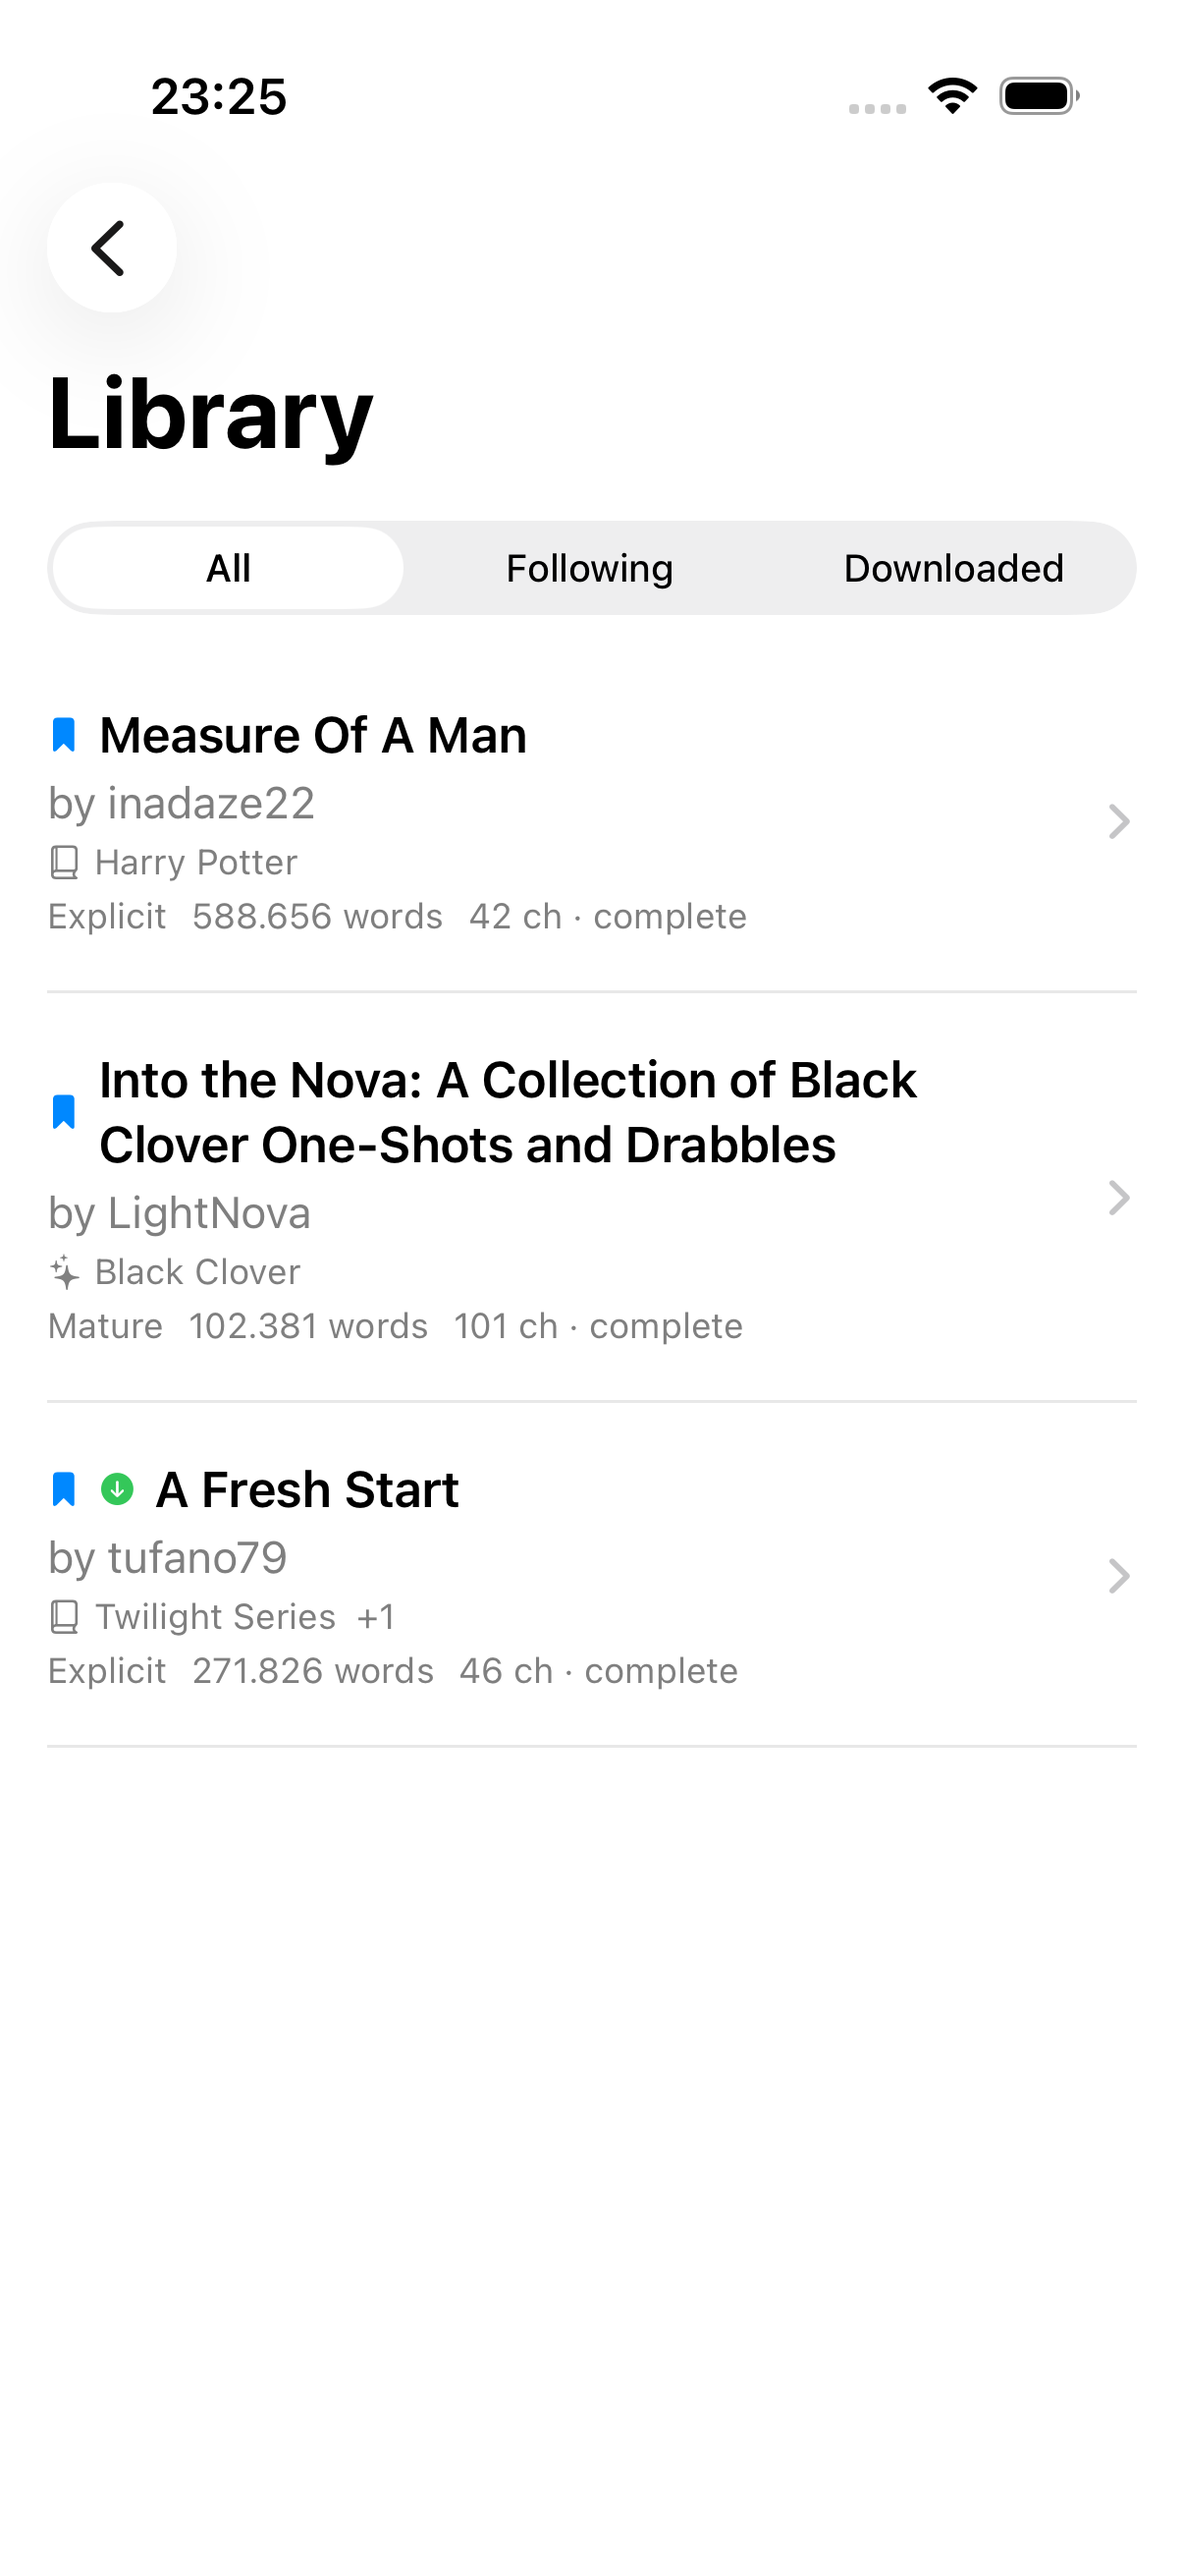
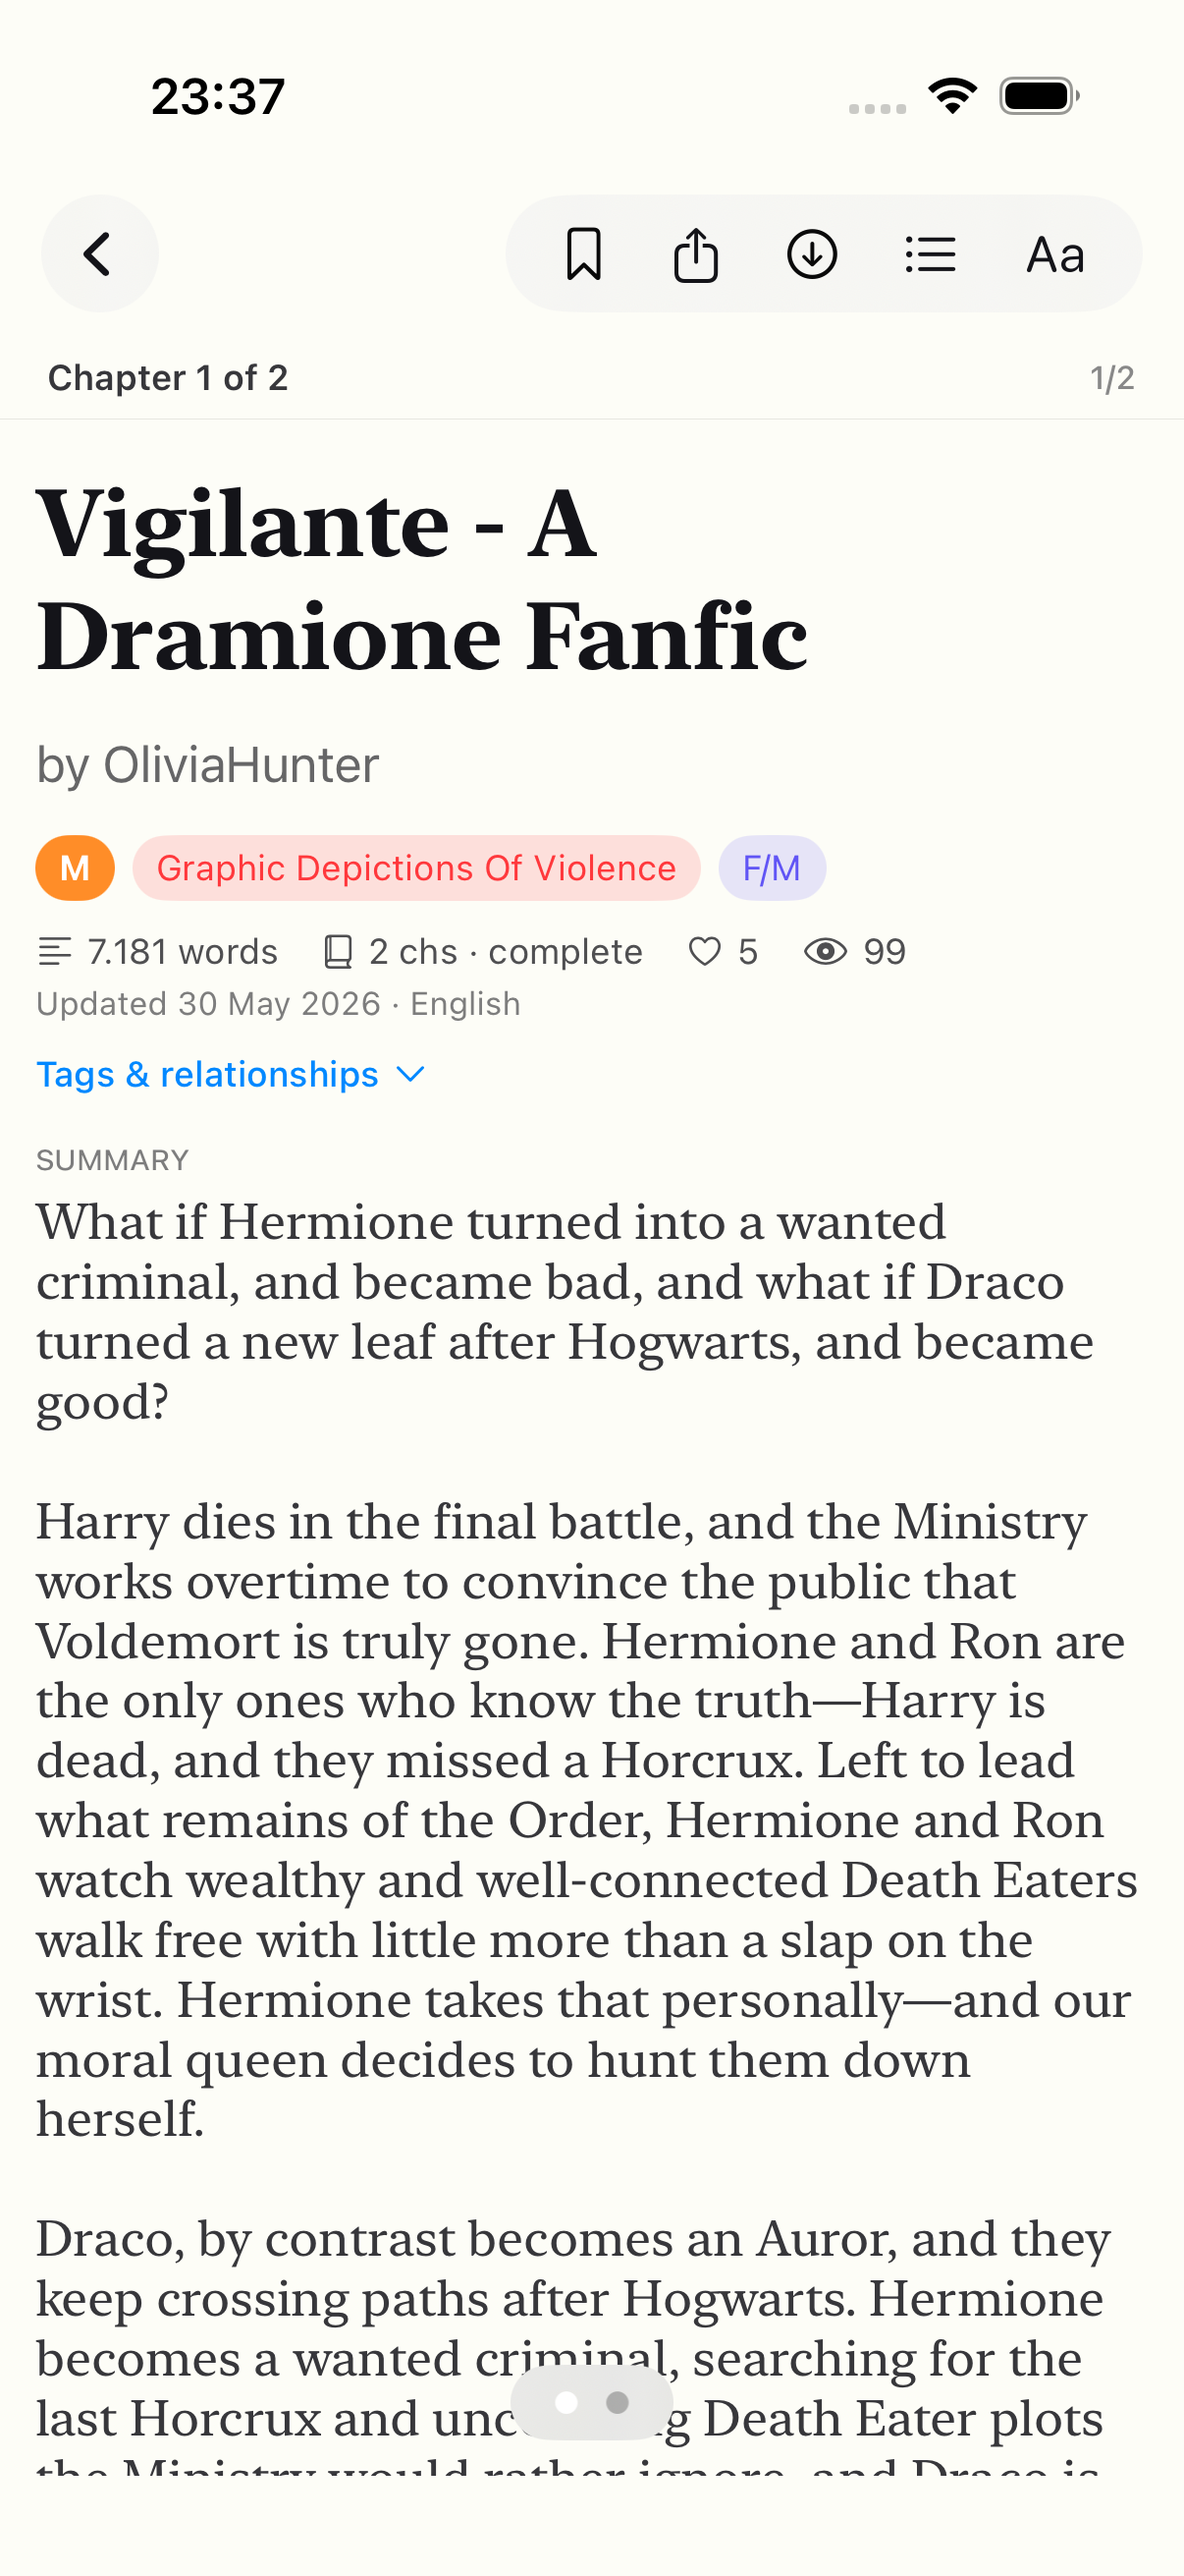
Reader: custom floating chrome that reliably hides on scroll
Replace the system nav bar in the reader with the reader's own floating
toolbar — a back button + a pill of actions (the parent passes its follow/
kudos/export/save buttons in via a trailing ViewBuilder; the reader adds
chapters + typography) + the chapter indicator. It's hosted as a top
safe-area inset gated on chromeHidden, so hiding it on scroll is just a
conditional view — no dependence on .toolbar(.hidden), which wouldn't
reliably hide a bar whose items were declared in the parent.

Also paints everything (toolbar + chapter indicator) with the reader's own
background, killing the last of the gray (.ultraThinMaterial) material.

ReaderView's inits now take a trailing @ViewBuilder actions closure instead
of the onChromeChange callback; WorkDetailView and SavedWorkReader pass
their buttons through it and no longer touch the nav bar. 126 tests green;
verified the rendered chrome in a captured reader screenshot.

diff --git a/Fanficly/Reader/ReaderView.swift b/Fanficly/Reader/ReaderView.swift
@@ -5,10 +5,10 @@ struct ReaderView: View {
     let author: String
     let chapters: [AO3ChapterPayload]
     let summary: AO3WorkSummary?
-    /// Reports chrome show/hide as the user scrolls, so the parent — which owns
-    /// the nav-bar items — can hide the whole bar. Applying `.toolbar(.hidden)`
-    /// from inside the reader is unreliable when items are declared one level up.
-    var onChromeChange: ((Bool) -> Void)? = nil
+    /// Parent-supplied action buttons (follow, kudos, export, save…). They live
+    /// in the reader's own floating toolbar rather than the system nav bar, so
+    /// the reader can reliably hide all of its chrome on scroll.
+    let actions: AnyView
 
     @AppStorage("reader.theme") private var themeRaw: String = ReaderTheme.system.rawValue
     @AppStorage("reader.fontFamily") private var fontFamilyRaw: String = ReaderFontFamily.newYork.rawValue
@@ -19,6 +19,7 @@ struct ReaderView: View {
     @AppStorage("reader.paragraphSpacingPt") private var paragraphSpacingPt: Double = ReaderMetrics.defaultParagraphSpacing
     @Environment(\.colorScheme) private var systemColorScheme
     @Environment(\.modelContext) private var modelContext
+    @Environment(\.dismiss) private var dismiss
     @State private var selectedChapterIndex: Int = 1
     @State private var visibleChapterIndex: Int = 1
     @State private var currentAnchor: ReadingAnchor?
@@ -42,17 +43,17 @@ struct ReaderView: View {
     private var lineSpacing: CGFloat { CGFloat(lineSpacingPt) }
     private var paragraphSpacing: CGFloat { CGFloat(paragraphSpacingPt) }
 
-    init(title: String, author: String, chapters: [AO3ChapterPayload], summary: AO3WorkSummary? = nil,
-         onChromeChange: ((Bool) -> Void)? = nil) {
+    init<A: View>(title: String, author: String, chapters: [AO3ChapterPayload], summary: AO3WorkSummary? = nil,
+                  @ViewBuilder actions: () -> A = { EmptyView() }) {
         self.title = title
         self.author = author
         self.chapters = chapters
         self.summary = summary
-        self.onChromeChange = onChromeChange
+        self.actions = AnyView(actions())
     }
 
-    init(work: Work, onChromeChange: ((Bool) -> Void)? = nil) {
-        self.onChromeChange = onChromeChange
+    init<A: View>(work: Work, @ViewBuilder actions: () -> A = { EmptyView() }) {
+        self.actions = AnyView(actions())
         self.title = work.title
         self.author = work.authorName
         self.chapters = work.chapters
@@ -81,8 +82,8 @@ struct ReaderView: View {
         )
     }
 
-    init(payload: AO3WorkPayload, onChromeChange: ((Bool) -> Void)? = nil) {
-        self.onChromeChange = onChromeChange
+    init<A: View>(payload: AO3WorkPayload, @ViewBuilder actions: () -> A = { EmptyView() }) {
+        self.actions = AnyView(actions())
         self.title = payload.summary.title
         self.author = payload.summary.author
         self.chapters = payload.chapters
@@ -100,38 +101,56 @@ struct ReaderView: View {
             case .paginated:  paginatedBody(fg: fg, bg: bg)
             }
         }
-        // Theme only the nav bar to match the reader, NOT the whole window.
-        // `.preferredColorScheme` would propagate up to the scene, forcing the
-        // Browse/Library views underneath into the reader's scheme — so leaving
-        // a light reader made the app visibly flip back to dark a beat later.
-        // `.toolbarColorScheme` is scoped to the bar, so there's nothing to
-        // unwind on exit. The reader's body already paints its own fg/bg.
-        .toolbarColorScheme(theme.preferredColorScheme, for: .navigationBar)
-        // Paint the nav bar with the reader's own background instead of the
-        // default translucent gray material, so the bar blends into the page
-        // (the buttons keep their own pills). `.hidden` left the window's gray
-        // showing through, so force it visible and colored.
-        .toolbarBackground(bg, for: .navigationBar)
-        .toolbarBackground(.visible, for: .navigationBar)
-        .statusBarHidden(chromeHidden)
-        .toolbar {
-            if chapters.count > 1 {
-                ToolbarItem(placement: .topBarTrailing) {
-                    chaptersMenu
-                }
-            }
-            ToolbarItem(placement: .topBarTrailing) {
-                typographyMenu
+        // The reader draws its OWN chrome (a floating toolbar + chapter bar) as
+        // a top safe-area inset, so hiding it is just a conditional view — no
+        // dependence on the system nav bar, which wouldn't reliably hide.
+        .safeAreaInset(edge: .top, spacing: 0) {
+            if !chromeHidden {
+                floatingChrome(fg: fg, bg: bg)
+                    .transition(.move(edge: .top).combined(with: .opacity))
             }
         }
-        // The parent owns the nav bar (its items live there), so it applies the
-        // .toolbar(.hidden) — we just tell it when the scroll state flips.
-        .onChange(of: chromeHidden) { _, hidden in onChromeChange?(hidden) }
+        .toolbar(.hidden, for: .navigationBar)
+        .statusBarHidden(chromeHidden)
         .onChange(of: modeRaw) { _, _ in
             // Mode switched — show chrome and re-anchor in the new mode.
             chromeHidden = false
         }
-        .onAppear { onChromeChange?(chromeHidden) }
+    }
+
+    /// The reader's own top chrome: a back button, the parent's actions + the
+    /// chapters/typography menus in a floating pill, and the chapter indicator.
+    /// Painted with the reader background so nothing reads as system gray.
+    private func floatingChrome(fg: Color, bg: Color) -> some View {
+        VStack(spacing: 0) {
+            HStack(spacing: 12) {
+                Button { dismiss() } label: {
+                    Image(systemName: "chevron.left")
+                        .font(.body.weight(.semibold))
+                        .frame(width: 40, height: 40)
+                        .background(.regularMaterial, in: Circle())
+                }
+                Spacer(minLength: 8)
+                HStack(spacing: 20) {
+                    actions
+                    if chapters.count > 1 { chaptersMenu }
+                    typographyMenu
+                }
+                .font(.body)
+                .padding(.horizontal, 18)
+                .frame(height: 40)
+                .background(.regularMaterial, in: Capsule())
+            }
+            .tint(fg)
+            .padding(.horizontal, 14)
+            .padding(.top, 4)
+            .padding(.bottom, 8)
+
+            if chapters.count > 1 {
+                chapterIndicatorBar(fg: fg, bg: bg)
+            }
+        }
+        .background(bg)
     }
 
     // MARK: - Continuous
@@ -187,12 +206,6 @@ struct ReaderView: View {
             }
             .background(bg)
             .foregroundStyle(fg)
-            .safeAreaInset(edge: .top, spacing: 0) {
-                if chapters.count > 1 && !chromeHidden {
-                    chapterIndicatorBar(fg: fg, bg: bg)
-                        .transition(.move(edge: .top).combined(with: .opacity))
-                }
-            }
             .onChange(of: selectedChapterIndex) { _, newIndex in
                 // Reveal chrome so the chapter-bar inset is reserved, then
                 // scroll — a second pass after layout lands it correctly
@@ -292,7 +305,7 @@ struct ReaderView: View {
         }
         .padding(.horizontal, 16)
         .padding(.vertical, 7)
-        .background(.ultraThinMaterial)
+        .background(bg)
         .overlay(alignment: .bottom) {
             Rectangle().fill(fg.opacity(0.1)).frame(height: 0.5)
         }

diff --git a/Fanficly/Search/SearchView.swift b/Fanficly/Search/SearchView.swift
@@ -506,28 +506,18 @@ struct WorkDetailView: View {
     @State private var kudosed: Bool = false
     @State private var followed: Bool = false
     @State private var epubURL: URL?
-    @State private var chromeHidden = false
 
     var body: some View {
         Group {
             if let payload {
-                ReaderView(payload: payload, onChromeChange: { hidden in
-                    withAnimation(.easeInOut(duration: 0.2)) { chromeHidden = hidden }
-                })
-                    .toolbar(chromeHidden ? .hidden : .visible, for: .navigationBar)
-                    .toolbar {
-                        ToolbarItemGroup(placement: .topBarTrailing) {
-                            followButton(payload: payload)
-
-                            if auth.isLoggedIn {
-                                kudosButton
-                            }
-
-                            WorkExportButton(workId: workId, title: payload.summary.title)
-
-                            saveOfflineButton(payload: payload)
-                        }
+                ReaderView(payload: payload) {
+                    followButton(payload: payload)
+                    if auth.isLoggedIn {
+                        kudosButton
                     }
+                    WorkExportButton(workId: workId, title: payload.summary.title)
+                    saveOfflineButton(payload: payload)
+                }
             } else if let errorMessage {
                 ContentUnavailableView("Couldn't load work", systemImage: "exclamationmark.triangle",
                     description: Text(errorMessage))

diff --git a/Fanficly/Library/SavedWorkReader.swift b/Fanficly/Library/SavedWorkReader.swift
@@ -14,16 +14,20 @@ struct SavedWorkReader: View {
     @State private var errorMessage: String?
     @State private var isSavingOffline = false
     @State private var isDownloaded = false
-    @State private var chromeHidden = false
 
     private var hasOfflineText: Bool { !work.chapters.isEmpty }
+
+    @ViewBuilder private var readerActions: some View {
+        WorkExportButton(workId: work.ao3Id, title: work.title)
+        saveOfflineButton
+    }
 
     var body: some View {
         Group {
             if hasOfflineText {
-                ReaderView(work: work, onChromeChange: { hidden in withAnimation(.easeInOut(duration: 0.2)) { chromeHidden = hidden } })
+                ReaderView(work: work) { readerActions }
             } else if let payload {
-                ReaderView(payload: payload, onChromeChange: { hidden in withAnimation(.easeInOut(duration: 0.2)) { chromeHidden = hidden } })
+                ReaderView(payload: payload) { readerActions }
             } else if isLoading {
                 VStack(spacing: 12) {
                     ProgressView()
@@ -40,13 +44,6 @@ struct SavedWorkReader: View {
                 }
             } else {
                 Color.clear
-            }
-        }
-        .toolbar(chromeHidden ? .hidden : .visible, for: .navigationBar)
-        .toolbar {
-            ToolbarItemGroup(placement: .topBarTrailing) {
-                WorkExportButton(workId: work.ao3Id, title: work.title)
-                saveOfflineButton
             }
         }
         .task { await load() }
